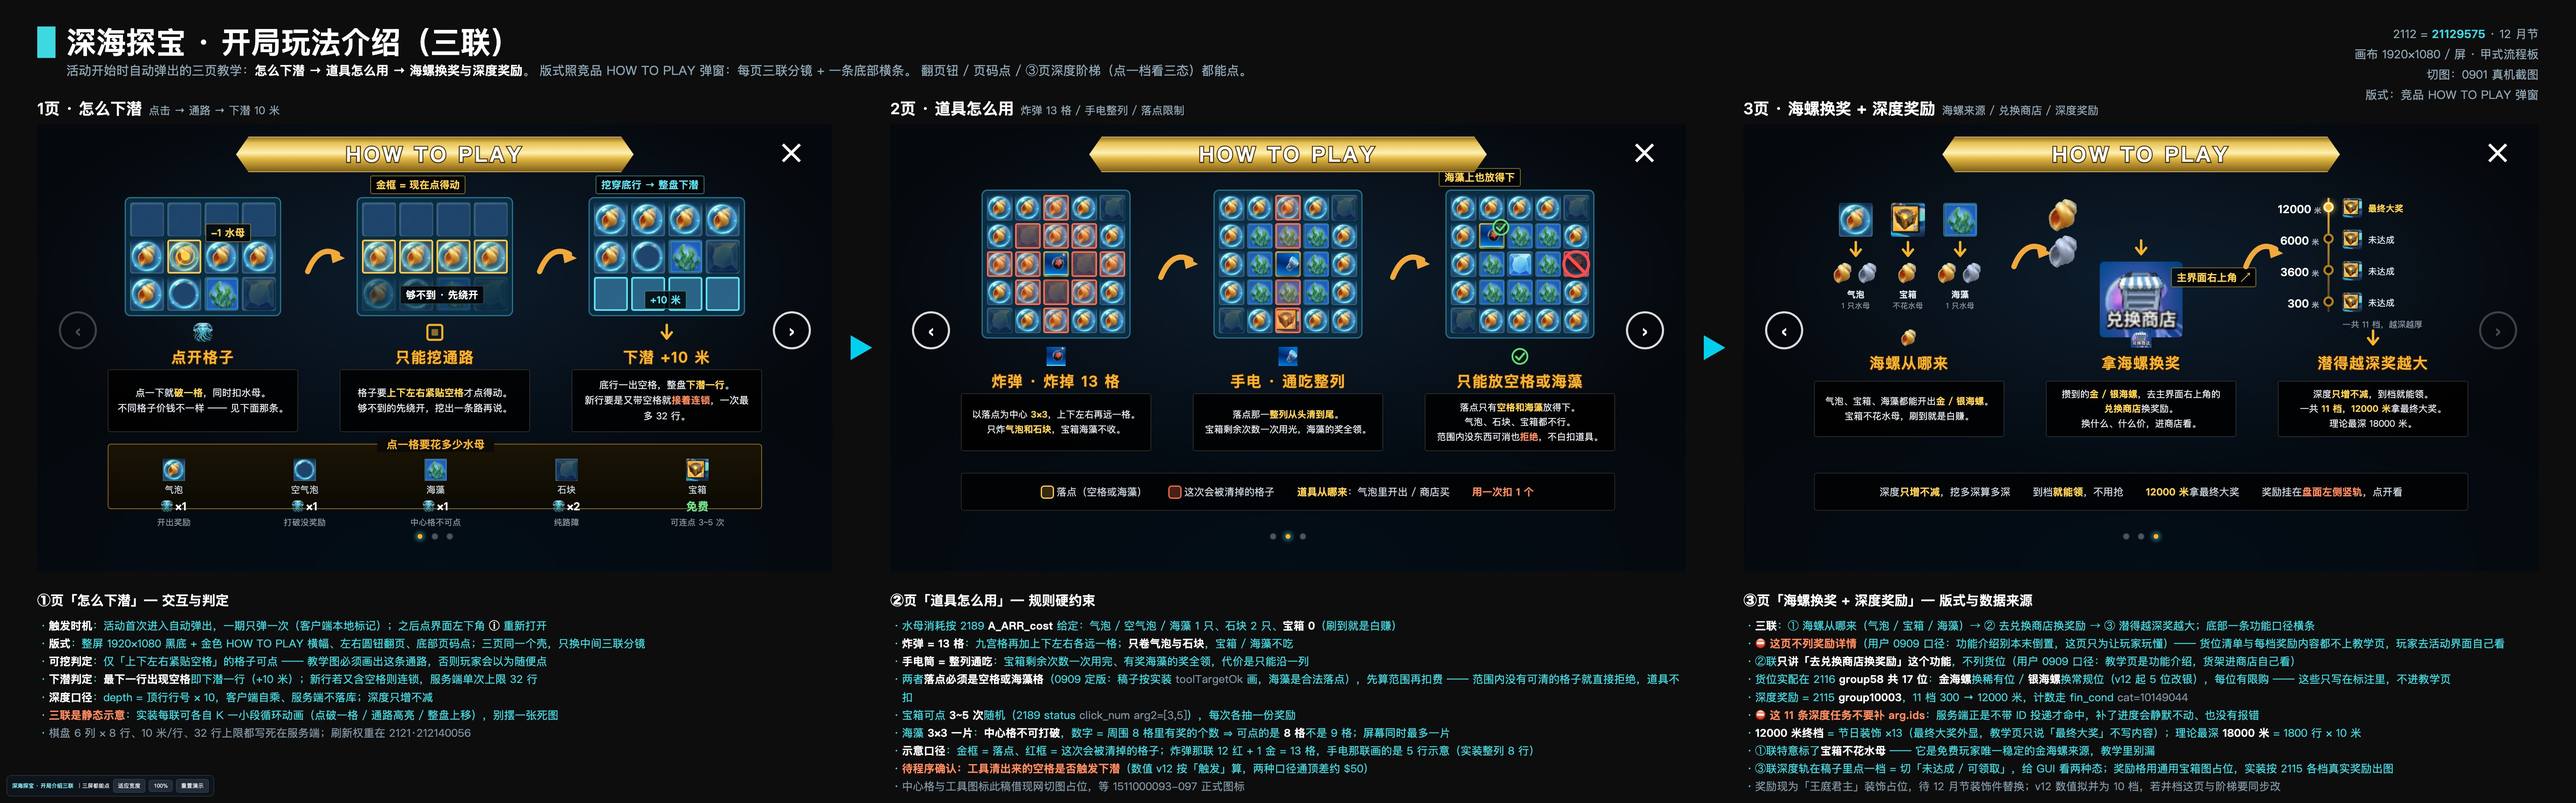
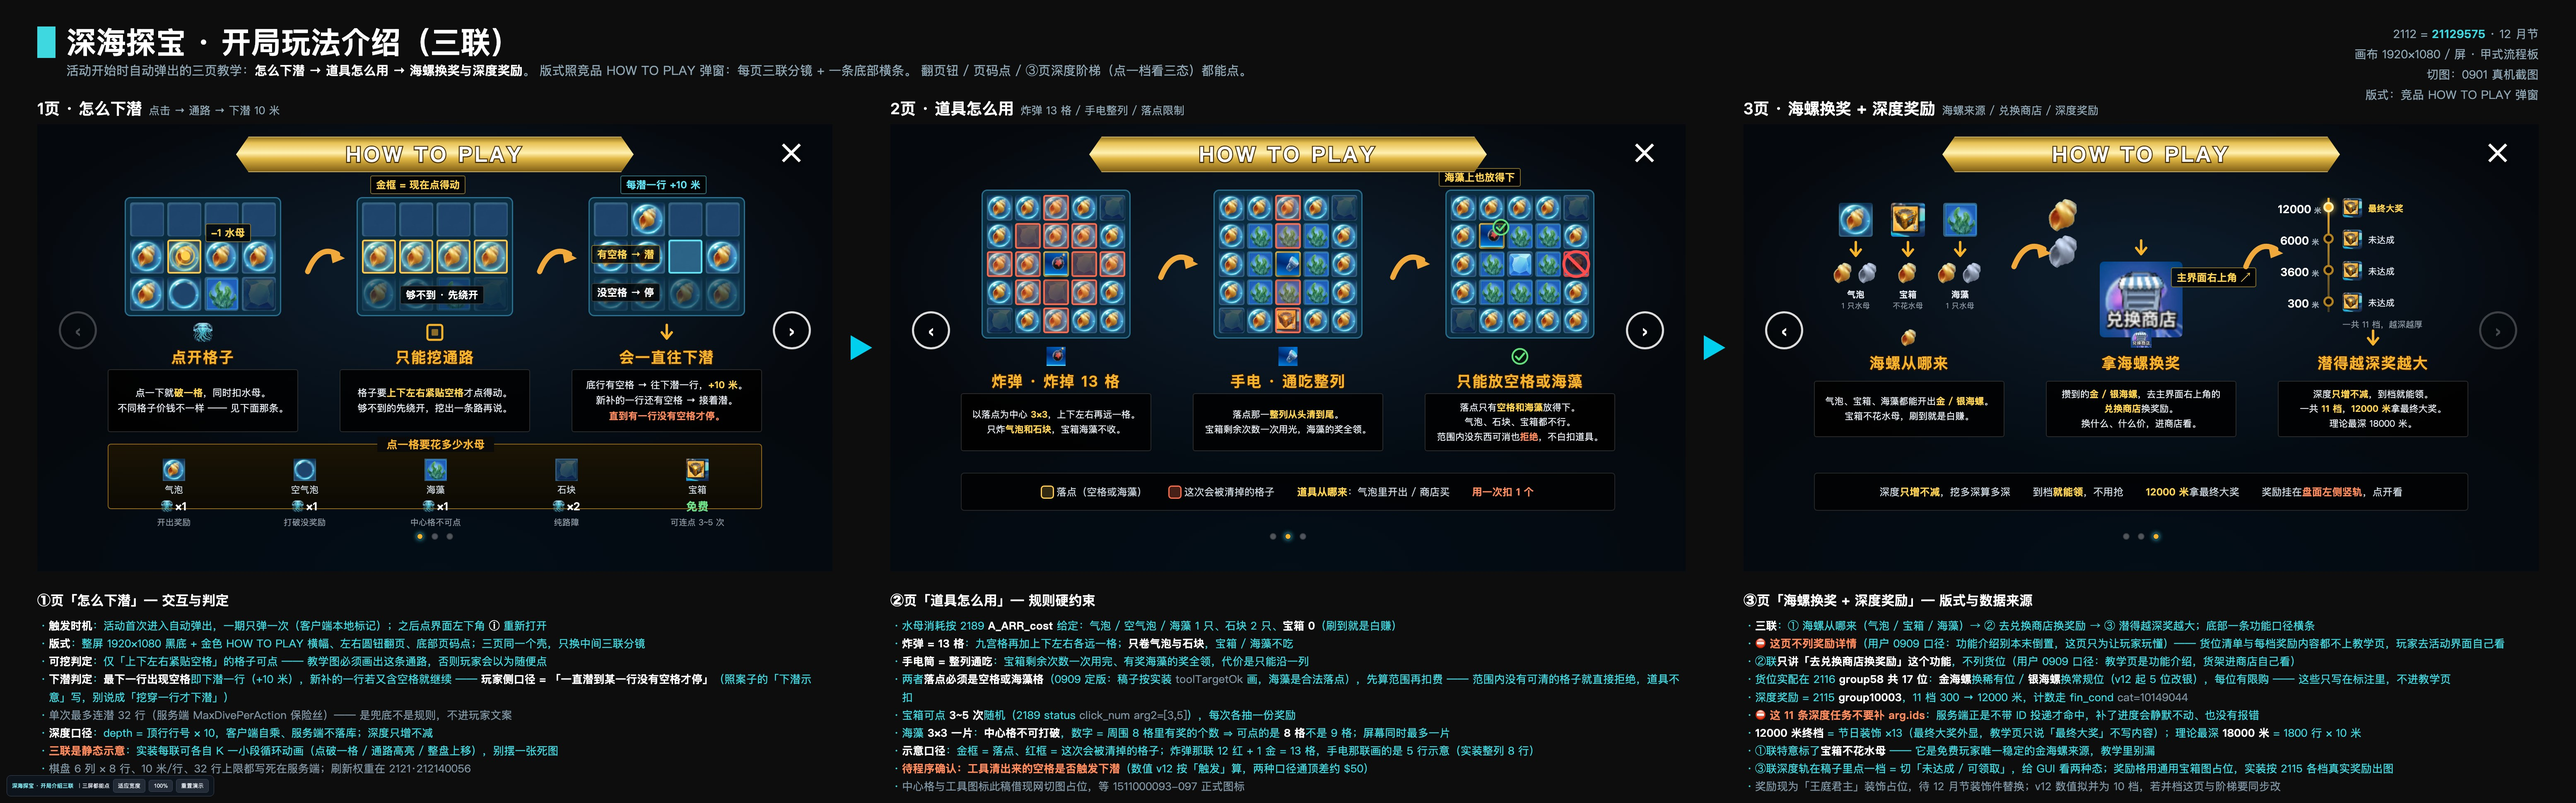
ux: ①页下潜口径按案子「下潜示意」纠正
原来写成「挖穿底行 = 下潜」，把停止条件说漏了。案子的下潜示意是
「当一行中没有空格时停止」，改成：

- 第三联标题 下潜 +10 米 → 会一直往下潜；盘面改成 有空格那行(青框指着空格) + 满的那行(置灰)
  两个浮标「有空格 → 潜」「没空格 → 停」直接钉在对应行上
- 文案：底行有空格 → 往下潜一行 +10 米；新补的一行还有空格 → 接着潜；直到有一行没有空格才停
- 「一次最多 32 行」从玩家文案里拿掉（服务端 MaxDivePerAction 保险丝，改写进标注层）
- 标注层补一句「别说成挖穿一行才下潜」；autotest 加两条断言钉住这联的示意（nogo 8 / dug 1）

Changed region(s): [[0.0, 0.8351, 0.3119, 0.9588], [0.2183, 0.2165, 0.3119, 0.4021], [0.2183, 0.433, 0.2807, 0.5258]]

diff --git a/docs/treasure_dive_design/ux/intro3.bundle.html b/docs/treasure_dive_design/ux/intro3.bundle.html
@@ -563,13 +563,15 @@ const P1_SHOTS = [
     tt: '只能挖通路',
     desc: '格子要<b>上下左右紧贴空格</b>才点得动。<br>够不到的先绕开，挖出一条路再说。' },
 
-  { rows: ['bbbb', 'bxsr', 'eeee'],
-    mark: (r, c) => (r === 2 ? 'dug' : ''),
-    deco: `<div class="htp-tag cyan" style="left:58px;top:-52px">挖穿底行 → 整盘下潜</div>
-           <div class="htp-tag cyan" style="left:176px;top:226px">+10 米</div>`,
+  /* 下潜口径按案子「下潜示意」：有空格就潜，**直到某一行没有空格才停**（32 行只是服务端保险丝，不进玩家文案） */
+  { rows: ['ebee', 'bbeb', 'bbbb'],
+    mark: (r, c) => (r === 2 ? 'nogo' : (r === 1 && c === 2 ? 'dug' : '')),
+    deco: `<div class="htp-tag cyan" style="left:118px;top:-52px">每潜一行 +10 米</div>
+           <div class="htp-tag gold" style="left:48px;top:116px">有空格 → 潜</div>
+           <div class="htp-tag" style="left:48px;top:208px">没空格 → 停</div>`,
     icon: () => SVG_DOWN,
-    tt: '下潜 +10 米',
-    desc: '底行一出空格，整盘<b>下潜一行</b>。<br>新行要是又带空格就<em>接着连锁</em>，一次最多 32 行。' }
+    tt: '会一直往下潜',
+    desc: '底行有空格 → 往下潜一行，<b>+10 米</b>。<br>新补的一行还有空格 → 接着潜。<br><em>直到有一行没有空格才停。</em>' }
 ];
 
 /* 底部消耗一览：k = CELL_ART 键；n = 水母数；free 时显示绿字 */
@@ -846,7 +848,8 @@ const NOTES = [
     li: ['<b>触发时机</b>：活动首次进入自动弹出，一期只弹一次（客户端本地标记）；之后点界面左下角 <b>ⓘ</b> 重新打开',
          '<b>版式</b>：整屏 1920×1080 黑底 + 金色 HOW TO PLAY 横幅、左右圆钮翻页、底部页码点；三页同一个壳，只换中间三联分镜',
          '<b>可挖判定</b>：仅「上下左右紧贴空格」的格子可点 —— 教学图必须画出这条通路，否则玩家会以为随便点',
-         '<b>下潜判定</b>：<b>最下一行出现空格</b>即下潜一行（+10 米）；新行若又含空格则连锁，服务端单次上限 32 行',
+         '<b>下潜判定</b>：<b>最下一行出现空格</b>即下潜一行（+10 米），新补的一行若又含空格就继续 —— <b>玩家侧口径 = 「一直潜到某一行没有空格才停」</b>（照案子的「下潜示意」写，别说成「挖穿一行才下潜」）',
+         '<span class="cfg">单次最多连潜 32 行（服务端 MaxDivePerAction 保险丝）—— 是兜底不是规则，不进玩家文案</span>',
          '<b>深度口径</b>：depth = 顶行行号 × 10，客户端自乘、服务端不落库；深度只增不减',
          '<em>三联是静态示意</em>：实装每联可各自 K 一小段循环动画（点破一格 / 通路高亮 / 整盘上移），别摆一张死图',
          '<span class="cfg">棋盘 6 列 × 8 行、10 米/行、32 行上限都写死在服务端；刷新权重在 2121·212140056</span>'] },
@@ -959,6 +962,8 @@ function autotest() {
   // 版式：每屏 3 联 + 各自的底部横条
   S.forEach((s, i) => eq(`p${i + 1}.cols`, s.querySelectorAll('.htp-col').length, 3));
   eq('p1.cost', S[0].querySelectorAll('.htp-cost .it').length, 5);        // 5 类格子消耗
+  eq('p1.nogo', S[0].querySelectorAll('.cell.nogo').length, 4 + 4);       // ②联够不到那行 + ③联满的那行
+  eq('p1.dug', S[0].querySelectorAll('.cell.dug').length, 1);             // ③联指着的那个空格
   eq('p2.legend', S[1].querySelectorAll('.htp-legend span').length, 4);
   eq('p3.legend', S[2].querySelectorAll('.htp-legend span').length, 4);
   eq('p3.rail', S[2].querySelectorAll('.htp-rail .nd').length, 4);        // 只示意 4 档，不列清单

diff --git a/docs/treasure_dive_design/ux/intro3.js b/docs/treasure_dive_design/ux/intro3.js
@@ -122,13 +122,15 @@ const P1_SHOTS = [
     tt: '只能挖通路',
     desc: '格子要<b>上下左右紧贴空格</b>才点得动。<br>够不到的先绕开，挖出一条路再说。' },
 
-  { rows: ['bbbb', 'bxsr', 'eeee'],
-    mark: (r, c) => (r === 2 ? 'dug' : ''),
-    deco: `<div class="htp-tag cyan" style="left:58px;top:-52px">挖穿底行 → 整盘下潜</div>
-           <div class="htp-tag cyan" style="left:176px;top:226px">+10 米</div>`,
+  /* 下潜口径按案子「下潜示意」：有空格就潜，**直到某一行没有空格才停**（32 行只是服务端保险丝，不进玩家文案） */
+  { rows: ['ebee', 'bbeb', 'bbbb'],
+    mark: (r, c) => (r === 2 ? 'nogo' : (r === 1 && c === 2 ? 'dug' : '')),
+    deco: `<div class="htp-tag cyan" style="left:118px;top:-52px">每潜一行 +10 米</div>
+           <div class="htp-tag gold" style="left:48px;top:116px">有空格 → 潜</div>
+           <div class="htp-tag" style="left:48px;top:208px">没空格 → 停</div>`,
     icon: () => SVG_DOWN,
-    tt: '下潜 +10 米',
-    desc: '底行一出空格，整盘<b>下潜一行</b>。<br>新行要是又带空格就<em>接着连锁</em>，一次最多 32 行。' }
+    tt: '会一直往下潜',
+    desc: '底行有空格 → 往下潜一行，<b>+10 米</b>。<br>新补的一行还有空格 → 接着潜。<br><em>直到有一行没有空格才停。</em>' }
 ];
 
 /* 底部消耗一览：k = CELL_ART 键；n = 水母数；free 时显示绿字 */
@@ -405,7 +407,8 @@ const NOTES = [
     li: ['<b>触发时机</b>：活动首次进入自动弹出，一期只弹一次（客户端本地标记）；之后点界面左下角 <b>ⓘ</b> 重新打开',
          '<b>版式</b>：整屏 1920×1080 黑底 + 金色 HOW TO PLAY 横幅、左右圆钮翻页、底部页码点；三页同一个壳，只换中间三联分镜',
          '<b>可挖判定</b>：仅「上下左右紧贴空格」的格子可点 —— 教学图必须画出这条通路，否则玩家会以为随便点',
-         '<b>下潜判定</b>：<b>最下一行出现空格</b>即下潜一行（+10 米）；新行若又含空格则连锁，服务端单次上限 32 行',
+         '<b>下潜判定</b>：<b>最下一行出现空格</b>即下潜一行（+10 米），新补的一行若又含空格就继续 —— <b>玩家侧口径 = 「一直潜到某一行没有空格才停」</b>（照案子的「下潜示意」写，别说成「挖穿一行才下潜」）',
+         '<span class="cfg">单次最多连潜 32 行（服务端 MaxDivePerAction 保险丝）—— 是兜底不是规则，不进玩家文案</span>',
          '<b>深度口径</b>：depth = 顶行行号 × 10，客户端自乘、服务端不落库；深度只增不减',
          '<em>三联是静态示意</em>：实装每联可各自 K 一小段循环动画（点破一格 / 通路高亮 / 整盘上移），别摆一张死图',
          '<span class="cfg">棋盘 6 列 × 8 行、10 米/行、32 行上限都写死在服务端；刷新权重在 2121·212140056</span>'] },
@@ -518,6 +521,8 @@ function autotest() {
   // 版式：每屏 3 联 + 各自的底部横条
   S.forEach((s, i) => eq(`p${i + 1}.cols`, s.querySelectorAll('.htp-col').length, 3));
   eq('p1.cost', S[0].querySelectorAll('.htp-cost .it').length, 5);        // 5 类格子消耗
+  eq('p1.nogo', S[0].querySelectorAll('.cell.nogo').length, 4 + 4);       // ②联够不到那行 + ③联满的那行
+  eq('p1.dug', S[0].querySelectorAll('.cell.dug').length, 1);             // ③联指着的那个空格
   eq('p2.legend', S[1].querySelectorAll('.htp-legend span').length, 4);
   eq('p3.legend', S[2].querySelectorAll('.htp-legend span').length, 4);
   eq('p3.rail', S[2].querySelectorAll('.htp-rail .nd').length, 4);        // 只示意 4 档，不列清单

diff --git a/docs/treasure_dive_design/ux/intro3.preview.html b/docs/treasure_dive_design/ux/intro3.preview.html
@@ -563,13 +563,15 @@ const P1_SHOTS = [
     tt: '只能挖通路',
     desc: '格子要<b>上下左右紧贴空格</b>才点得动。<br>够不到的先绕开，挖出一条路再说。' },
 
-  { rows: ['bbbb', 'bxsr', 'eeee'],
-    mark: (r, c) => (r === 2 ? 'dug' : ''),
-    deco: `<div class="htp-tag cyan" style="left:58px;top:-52px">挖穿底行 → 整盘下潜</div>
-           <div class="htp-tag cyan" style="left:176px;top:226px">+10 米</div>`,
+  /* 下潜口径按案子「下潜示意」：有空格就潜，**直到某一行没有空格才停**（32 行只是服务端保险丝，不进玩家文案） */
+  { rows: ['ebee', 'bbeb', 'bbbb'],
+    mark: (r, c) => (r === 2 ? 'nogo' : (r === 1 && c === 2 ? 'dug' : '')),
+    deco: `<div class="htp-tag cyan" style="left:118px;top:-52px">每潜一行 +10 米</div>
+           <div class="htp-tag gold" style="left:48px;top:116px">有空格 → 潜</div>
+           <div class="htp-tag" style="left:48px;top:208px">没空格 → 停</div>`,
     icon: () => SVG_DOWN,
-    tt: '下潜 +10 米',
-    desc: '底行一出空格，整盘<b>下潜一行</b>。<br>新行要是又带空格就<em>接着连锁</em>，一次最多 32 行。' }
+    tt: '会一直往下潜',
+    desc: '底行有空格 → 往下潜一行，<b>+10 米</b>。<br>新补的一行还有空格 → 接着潜。<br><em>直到有一行没有空格才停。</em>' }
 ];
 
 /* 底部消耗一览：k = CELL_ART 键；n = 水母数；free 时显示绿字 */
@@ -846,7 +848,8 @@ const NOTES = [
     li: ['<b>触发时机</b>：活动首次进入自动弹出，一期只弹一次（客户端本地标记）；之后点界面左下角 <b>ⓘ</b> 重新打开',
          '<b>版式</b>：整屏 1920×1080 黑底 + 金色 HOW TO PLAY 横幅、左右圆钮翻页、底部页码点；三页同一个壳，只换中间三联分镜',
          '<b>可挖判定</b>：仅「上下左右紧贴空格」的格子可点 —— 教学图必须画出这条通路，否则玩家会以为随便点',
-         '<b>下潜判定</b>：<b>最下一行出现空格</b>即下潜一行（+10 米）；新行若又含空格则连锁，服务端单次上限 32 行',
+         '<b>下潜判定</b>：<b>最下一行出现空格</b>即下潜一行（+10 米），新补的一行若又含空格就继续 —— <b>玩家侧口径 = 「一直潜到某一行没有空格才停」</b>（照案子的「下潜示意」写，别说成「挖穿一行才下潜」）',
+         '<span class="cfg">单次最多连潜 32 行（服务端 MaxDivePerAction 保险丝）—— 是兜底不是规则，不进玩家文案</span>',
          '<b>深度口径</b>：depth = 顶行行号 × 10，客户端自乘、服务端不落库；深度只增不减',
          '<em>三联是静态示意</em>：实装每联可各自 K 一小段循环动画（点破一格 / 通路高亮 / 整盘上移），别摆一张死图',
          '<span class="cfg">棋盘 6 列 × 8 行、10 米/行、32 行上限都写死在服务端；刷新权重在 2121·212140056</span>'] },
@@ -959,6 +962,8 @@ function autotest() {
   // 版式：每屏 3 联 + 各自的底部横条
   S.forEach((s, i) => eq(`p${i + 1}.cols`, s.querySelectorAll('.htp-col').length, 3));
   eq('p1.cost', S[0].querySelectorAll('.htp-cost .it').length, 5);        // 5 类格子消耗
+  eq('p1.nogo', S[0].querySelectorAll('.cell.nogo').length, 4 + 4);       // ②联够不到那行 + ③联满的那行
+  eq('p1.dug', S[0].querySelectorAll('.cell.dug').length, 1);             // ③联指着的那个空格
   eq('p2.legend', S[1].querySelectorAll('.htp-legend span').length, 4);
   eq('p3.legend', S[2].querySelectorAll('.htp-legend span').length, 4);
   eq('p3.rail', S[2].querySelectorAll('.htp-rail .nd').length, 4);        // 只示意 4 档，不列清单

diff --git a/docs/treasure_dive_design/ux/README.md b/docs/treasure_dive_design/ux/README.md
@@ -33,7 +33,7 @@ https://github.com/MarinL21/mrl-game-config-tools/blob/main/docs/treasure_dive_d
 
 | 页 | 三联 | 底部横条 |
 |---|---|---|
-| ① 怎么下潜 | 点开格子 → 只能挖通路 → 下潜 +10 米 | 5 类格子各花多少水母 |
+| ① 怎么下潜 | 点开格子 → 只能挖通路 → 会一直往下潜 | 5 类格子各花多少水母 |
 | ② 道具怎么用 | 炸弹炸 13 格 → 手电通吃整列 → 只能放空格或海藻 | 金框 / 红框图例 + 道具来源 |
 | ③ 海螺换奖 + 深度奖励 | 海螺从哪来 → 拿海螺换奖 → 潜得越深奖越大 | 深度玩法的四条功能口径 |
 
@@ -42,6 +42,12 @@ https://github.com/MarinL21/mrl-game-config-tools/blob/main/docs/treasure_dive_d
 ⛔ **这三页只讲功能，不讲奖励详情**（用户 0909 口径：功能介绍别本末倒置，这页是为了让玩家玩懂）。
 兑换商店只说「去换奖励」不列货位；深度奖励只说「有 11 档、越深越厚、12000 米大奖」不列每档内容 ——
 货架和每档奖励玩家在活动界面自己看，配置口径写在板下的标注层里。
+
+## 下潜口径（0909 按案子「下潜示意」纠过一次）
+
+**底行有空格 → 往下潜一行（+10 米）；新补的一行还有空格 → 接着潜；直到有一行没有空格才停。**
+⛔ 别写成「挖穿一行才下潜」—— 停止条件是「某一行没有空格」，这才是案子里的口径。
+单次最多连潜 32 行是服务端 `MaxDivePerAction` 保险丝，兜底用的，不进玩家文案。
 
 ## 口径来源
 
